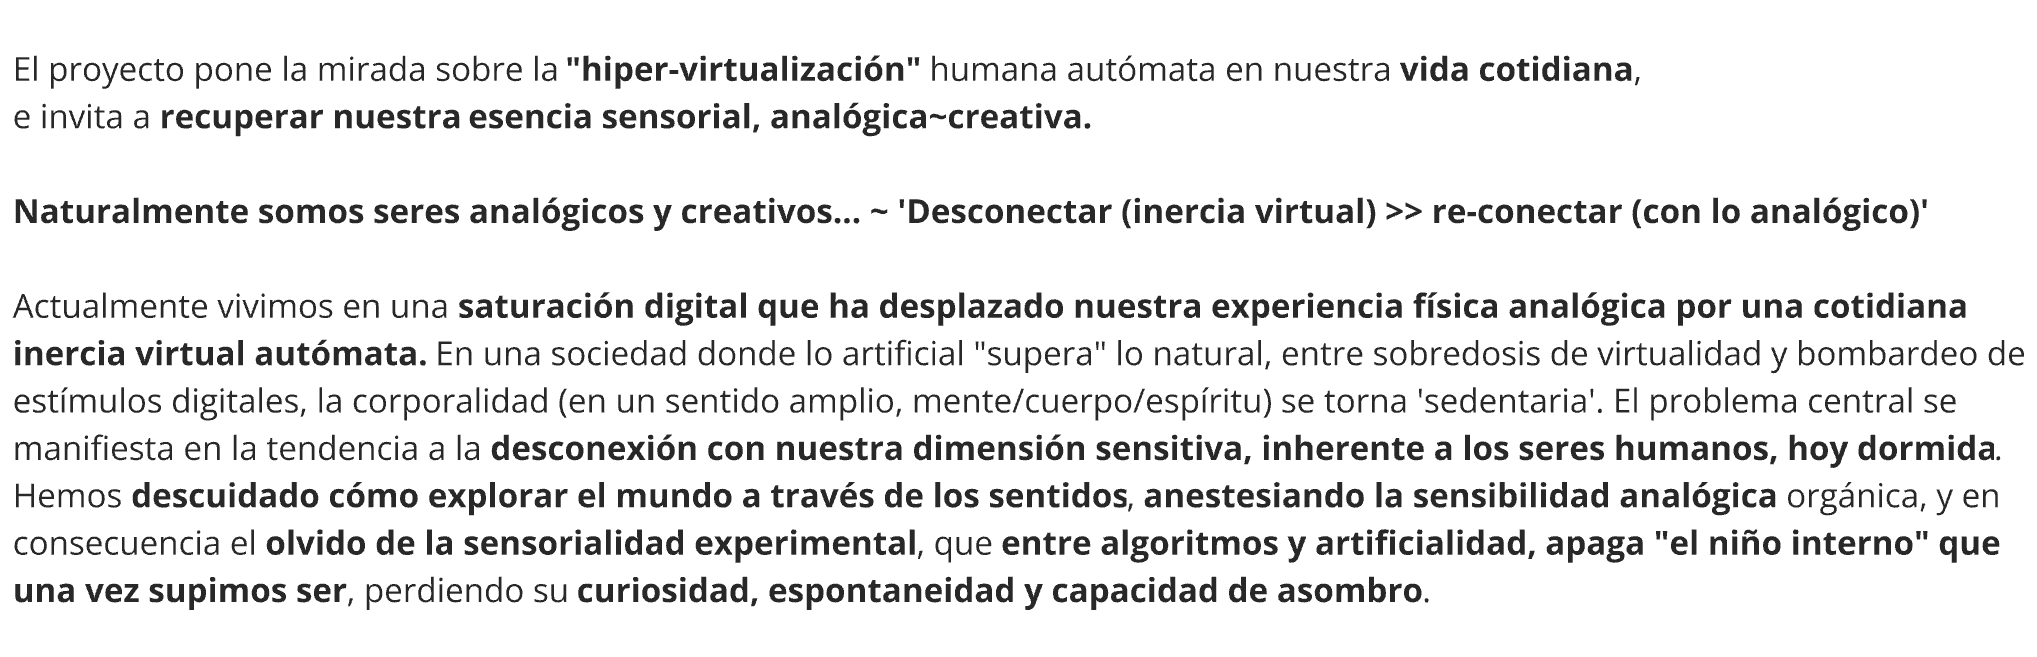
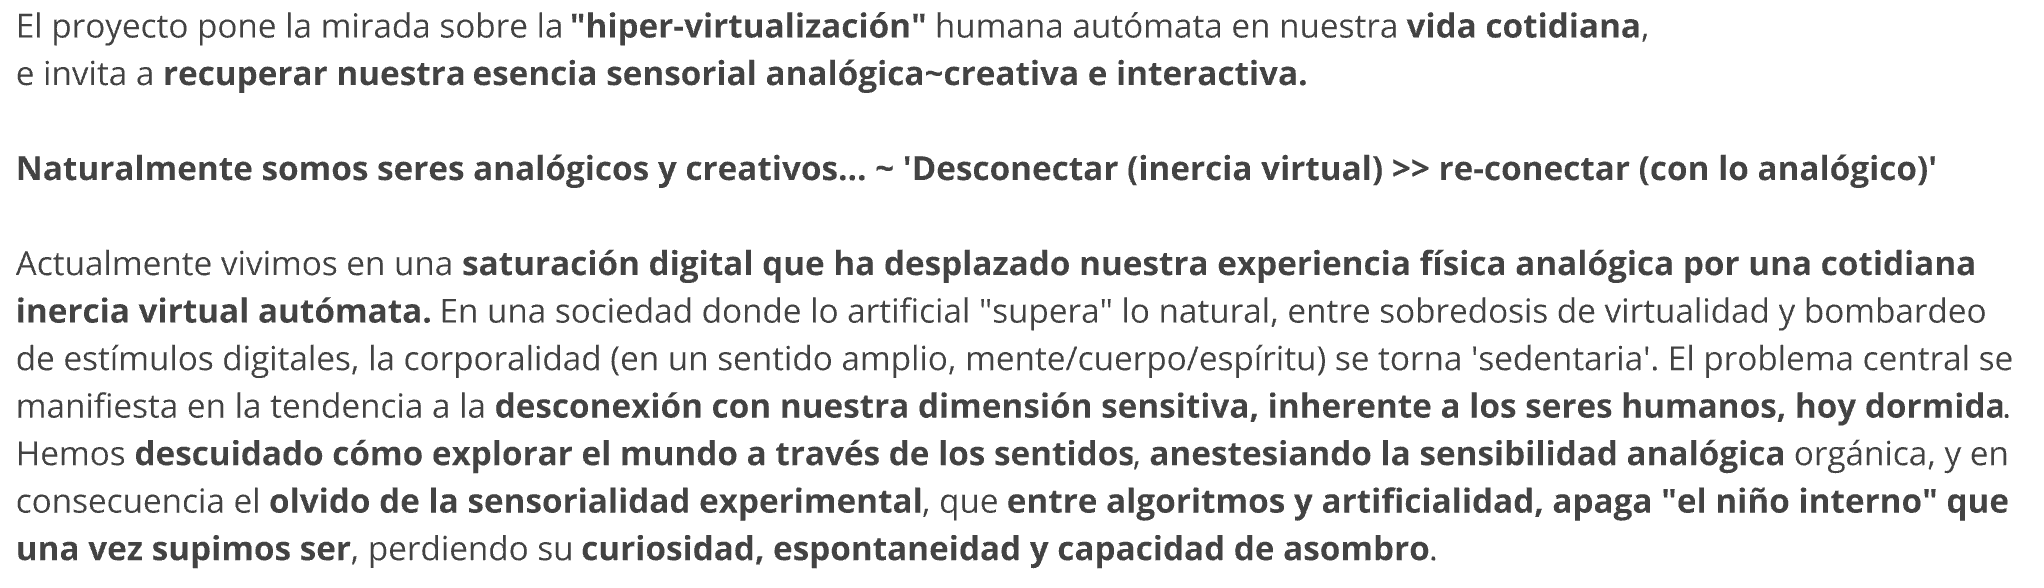
PI_Image change

Changed region(s): [[0.0, 0.4286, 1.0, 0.9796], [0.0, 0.0, 0.8041, 0.2143], [0.0, 0.2449, 0.9588, 0.3673]]

diff --git a/docs/proyecto/Presentación.md b/docs/proyecto/Presentación.md
@@ -11,7 +11,7 @@ hide:
 <br>
 <br>
 
-![](../images/PI/ENTREGA_PFI_ANDRE_LORIETO_2026.gi) 
+![](../images/PI/ENTREGA_PFI_ANDRE_LORIETO_2026.g) 
 
 <p></p>
 _____
